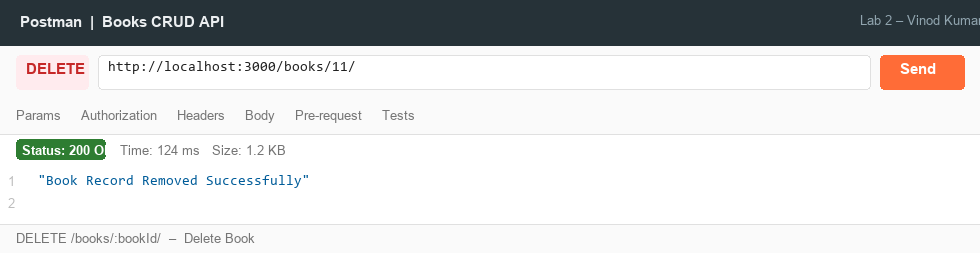
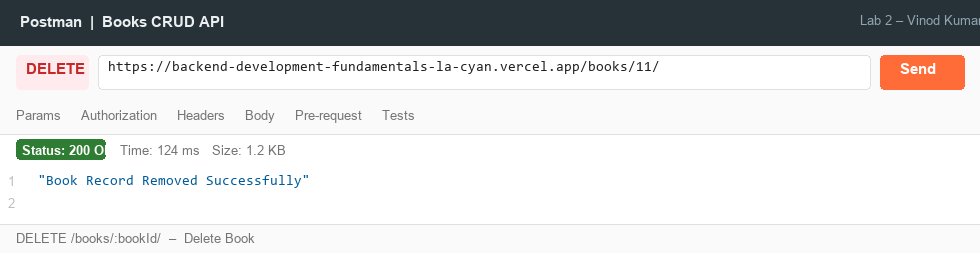
Update screenshots and README with Vercel live URL

Changed region(s): [[0.1224, 0.248, 0.6735, 0.3031]]

diff --git a/gen_screenshots.py b/gen_screenshots.py
@@ -1,7 +1,7 @@
 import os
 from PIL import Image, ImageDraw, ImageFont
 
-output_dir = r"c:\Users\Admin\OneDrive\Desktop\Year-II\Term-2\Backend-Dev\Lab-2-Vinod\screenshots"
+output_dir = r"c:\Users\vinod\Downloads\Lab-02_bdf\screenshots"
 os.makedirs(output_dir, exist_ok=True)
 
 try:
@@ -160,7 +160,7 @@ def create_postman_card(title, method, url, status_code, status_text, req_body_l
 # 1. GET /books/
 create_postman_card(
     "GET /books/  –  All Books",
-    "GET", "http://localhost:3000/books/", 200, "OK",
+    "GET", "https://backend-development-fundamentals-la-cyan.vercel.app/books/", 200, "OK",
     None,
     [
         "[",
@@ -182,7 +182,7 @@ create_postman_card(
 # 2. GET /books/1/
 create_postman_card(
     "GET /books/:bookId/  –  Single Book",
-    "GET", "http://localhost:3000/books/1/", 200, "OK",
+    "GET", "https://backend-development-fundamentals-la-cyan.vercel.app/books/1/", 200, "OK",
     None,
     ["{", '  "id": 1,', '  "title": "Atomic Habits",', '  "author": "James Clear",', '  "price": 499,', '  "pages": 320', "}"],
     "02_get_single_book.png"
@@ -191,7 +191,7 @@ create_postman_card(
 # 3. POST /books/
 create_postman_card(
     "POST /books/  –  Add New Book",
-    "POST", "http://localhost:3000/books/", 201, "Created",
+    "POST", "https://backend-development-fundamentals-la-cyan.vercel.app/books/", 201, "Created",
     ["{", '  "title": "The Clean Coder",', '  "author": "Robert C. Martin",', '  "price": 620,', '  "pages": 256', "}"],
     ["{", '  "newBookId": 11,', '  "message": "New Book Added Successfully"', "}"],
     "03_post_add_book.png"
@@ -200,7 +200,7 @@ create_postman_card(
 # 4. PUT /books/1/
 create_postman_card(
     "PUT /books/:bookId/  –  Update Book",
-    "PUT", "http://localhost:3000/books/1/", 200, "OK",
+    "PUT", "https://backend-development-fundamentals-la-cyan.vercel.app/books/1/", 200, "OK",
     ["{", '  "title": "Atomic Habits (Special Edition)",', '  "author": "James Clear",', '  "price": 599,', '  "pages": 320', "}"],
     ['"Book Record Updated Successfully"'],
     "04_put_update_book.png"
@@ -209,7 +209,7 @@ create_postman_card(
 # 5. DELETE /books/11/
 create_postman_card(
     "DELETE /books/:bookId/  –  Delete Book",
-    "DELETE", "http://localhost:3000/books/11/", 200, "OK",
+    "DELETE", "https://backend-development-fundamentals-la-cyan.vercel.app/books/11/", 200, "OK",
     None,
     ['"Book Record Removed Successfully"'],
     "05_delete_book.png"
@@ -218,7 +218,7 @@ create_postman_card(
 # 6. 404
 create_postman_card(
     "GET /books/999/  –  404 Not Found",
-    "GET", "http://localhost:3000/books/999/", 404, "Not Found",
+    "GET", "https://backend-development-fundamentals-la-cyan.vercel.app/books/999/", 404, "Not Found",
     None,
     ['"Requested Book Not Found"'],
     "06_get_404_not_found.png"

diff --git a/README.md b/README.md
@@ -3,7 +3,7 @@
 **Student Name:** VINOD KUMAR · **Registration Number:** 252U1R1184 · **Section:** CSE-2D(214)  
 **Course:** Backend Development Fundamentals (Year II Term II) · **Faculty:** SAI SIVA TEJA · **Institution:** Aurora Deemed to be University  
 **GitHub Repository:** [https://github.com/vinodkumar24-vk/Backend-development_Lab-2_Vinod](https://github.com/vinodkumar24-vk/Backend-development_Lab-2_Vinod)  
-**Live Link:** Not applicable *(SQLite uses a local file-based database; serverless platforms do not support persistent disk writes.)*
+**Live Link:** [https://backend-development-fundamentals-la-cyan.vercel.app/](https://backend-development-fundamentals-la-cyan.vercel.app/)
 
 ---
 
